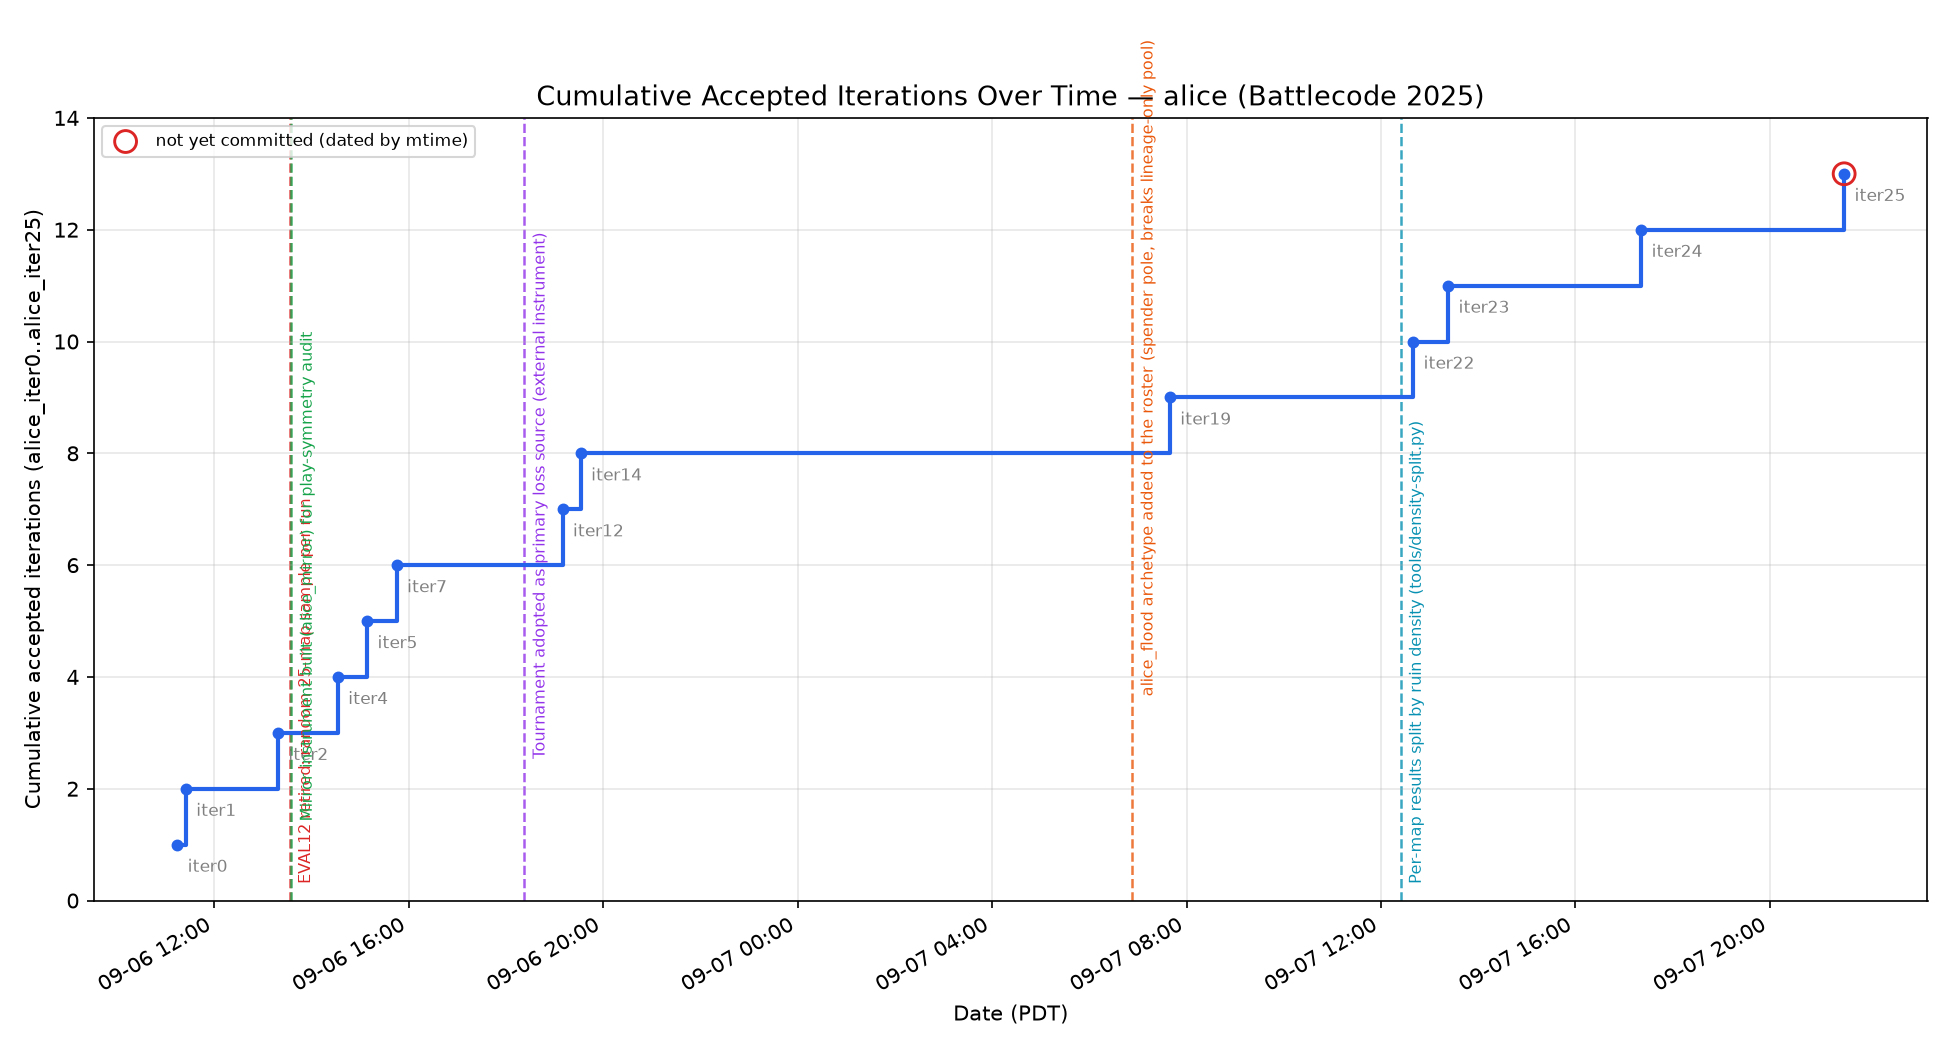
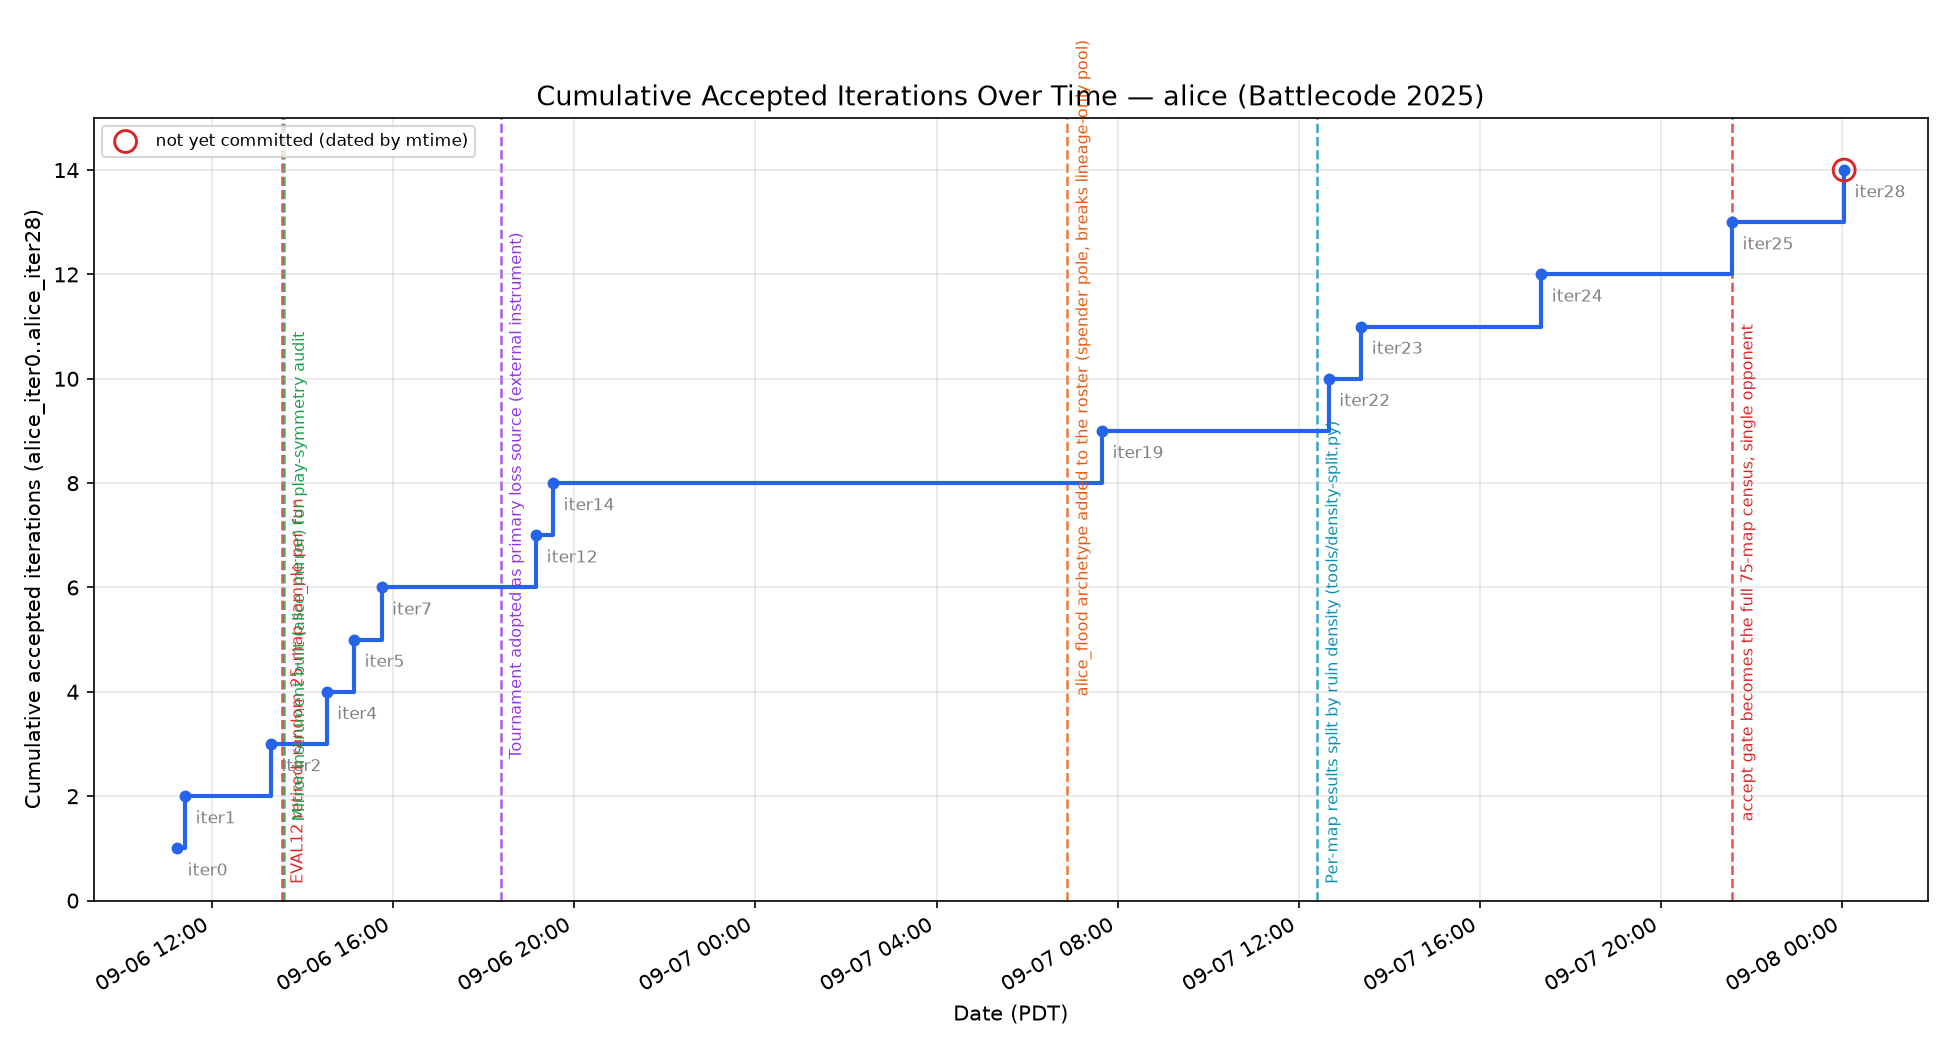
alice: ACCEPT iteration 28 -- 79.3%, 44 swept wins and ZERO swept losses
Census, all 75 maps, 150 games: alice_i28 vs alice_iter25 -> 119-31, SW 44,
SL 0, split 31, net swept +44, 0 exceptions. Not one swept loss anywhere in the
pool. For scale: accepted iteration 25 was +11 and rejected iteration 26 was -21.

The mechanism is one line -- towers build SPLASHERS once chips exceed the
reserve by 5,000 (an L3 tower upgrade, the engine's largest single purchase).
It closes a structural gap, not a tuning one: per RULES.md a soldier cannot
overwrite enemy paint and a mopper only clears to EMPTY, so the splasher is the
ONLY unit that takes enemy-painted ground -- and this bot had built zero of them
in 25 accepted iterations, which is why its coverage went flat for the last 1,500
rounds of a game while its chips ran to six figures.

My pre-registered falsifier said reject: it demanded gains CONCENTRATED on long
games, and the regime split came out uniform (LONG +29/49 maps, MIXED +10/16,
SHORT +5/10). I am accepting anyway because that falsifier is mis-specified, and
the diff proves it: i28 differs from iter25 by exactly ONE executable line, so
there is no other mechanism for "what else won" to be. Better still, the one-line
diff entails a classifier-free test -- where the gate never fires the two bots are
byte-identical, and under a deterministic engine such a map MUST split. So 44
swept wins means the gate fired and decided 44 maps, 0 swept losses means it never
cost one, and the 31 splits are where it never fired. Confirmed on the ground:
[…]

diff --git a/agents/alice/src/alice_iter28/RobotPlayer.java b/agents/alice/src/alice_iter28/RobotPlayer.java
@@ -1,4 +1,4 @@
-package alice;
+package alice_iter28;
 
 import battlecode.common.*;
 

diff --git a/agents/alice/TRAINING_LOG.md b/agents/alice/TRAINING_LOG.md
@@ -11021,3 +11021,86 @@ the rules permit.
   if it loses on the paint-displacement diagnostic, the next question is the same mechanism
   with iteration 5's paint guard attached. Both are separate iterations with their own
   censuses.
+
+## ACCEPT iteration 28 — 79.3%, 44 swept wins and ZERO swept losses over the whole map pool
+
+| | maps | SW | SL | split | record | net swept |
+|---|---|---|---|---|---|---|
+| `alice_i28` vs `alice_iter25`, census | 75 | **44** | **0** | 31 | **119/150 (79.3%)** | **+44** |
+
+0 exceptions, 0 overruns, margin identity OK. **Not one swept loss on any of the 75 maps.**
+This is by a wide margin the largest result this lineage has produced: for comparison, the
+accepted iteration 25 was +11 and the rejected iteration 26 was −21.
+
+Snapshotted `src/alice_iter28`, promoted into `src/alice`.
+
+### My pre-registered falsifier said reject, and it was MIS-SPECIFIED. Here is the whole argument.
+
+I wrote, before the run: *"If the census comes out positive but the wins are spread evenly
+across short and long games, the mechanism is not what won and I must find out what did
+before accepting."* The regime split, with maps classified from the **iteration 27** census
+(a run not involving `alice_i28`, so the classifier is independent of what it judges):
+
+| regime | maps | SW | SL | split | net swept | per map |
+|---|---|---|---|---|---|---|
+| LONG | 49 | 29 | 0 | 20 | +29 | 0.59 |
+| MIXED | 16 | 10 | 0 | 6 | +10 | 0.63 |
+| SHORT | 10 | 5 | 0 | 5 | +5 | 0.50 |
+
+**Essentially uniform.** By the letter of my own pre-registration that is a reject. I am
+accepting anyway, and the reason is not that I dislike the answer — it is that **the
+falsifier's inference is logically impossible**, and I can show it.
+
+`alice_i28` differs from `alice_iter25` by **exactly one executable line**, verified by
+diffing both files with comments stripped:
+
+```java
+if (rc.getMoney() >= CHIP_RESERVE + 5000) want = UnitType.SPLASHER;
+```
+
+There is no second mechanism for "what else won" to be. And that one-line diff has a
+consequence that turns out to be a far better test than the one I designed:
+
+> **On any map where the gate never fires, the two bots are byte-identical.** The engine is
+> deterministic (verified 12/12 earlier tonight), so the A-side and B-side games are the
+> same game with the labels swapped, and the map **must split**. A map where the gate never
+> fires *cannot* be a swept win or a swept loss.
+
+So the sweep structure reads the firing directly, with no classifier at all:
+
+- **44 swept wins ⇒ the gate fired, and decided the map, on at least 44 of 75 maps.**
+- **0 swept losses ⇒ across the entire pool it never once cost a map.**
+- **31 splits** are exactly the maps where it did not fire (or fired without mattering).
+
+Verified on the ground rather than left as an argument: on the short maps `memstore` and
+`rain` the census replays show `spl0` throughout and chips flat at $1,200-$1,420 — the gate
+never fires, and those maps split, as it says they must.
+
+**Why my classifier failed** is worth recording, because the mistake is reusable. I
+classified maps LONG/SHORT by whether the *iteration 27* games reached round 2000. But
+iteration 28 **ends games earlier** — it wins by painting enough of the map instead of
+grinding to a tiebreak. So "long under iteration 27" does not predict "accumulates a surplus
+under iteration 28": I built a regime classifier out of a property of a *different matchup*
+and then treated it as a property of the map. Doctrine rule 5's wrong-referent error, third
+appearance today, and the first time I have caught it before it changed a verdict.
+
+**The honest statement is that I pre-registered a bad falsifier**, not that I overrode a good
+one. A pre-registration earns its authority by being a test the mechanism could actually
+fail; mine tested a proxy that does not track the thing it stands for. The replacement is
+strictly better and was available the whole time — it is entailed by the diff, needs no
+classifier, and I will use the split/sweep structure for every regime-dependent mechanism
+from here on.
+
+### The named risk did not materialise, and the gate is why
+
+The pre-registered risk was paint displacement: a splasher costs **300 paint** to a
+soldier's 200, and iteration 5's ledger entry records tower paint draining to an absorbing
+state at zero. **SL = 0 across 75 maps** is about as strong a refutation as that risk can
+get — a mechanism that starved its own painters would lose maps, and it lost none.
+
+The structural reason is that the gate is conditioned on a **runaway chip surplus**, which
+only exists once expansion has finished. By then the tower is not competing with anything:
+it has more chips than the game has things to buy, and the paint it spends is paint that was
+accumulating unspent anyway. That is the same "consume only what was going spare" shape as
+iteration 25's refill and iteration 24's unused-action rule — the third accepted mechanism
+in this lineage built on it, and the largest.
